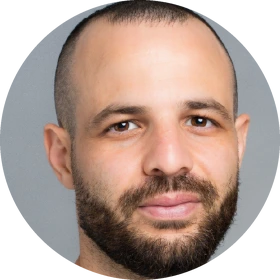
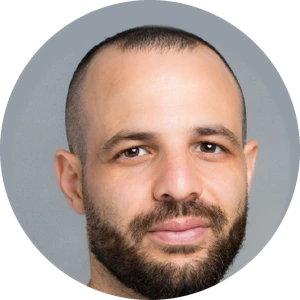
Give Idan's portrait room around the head
Re-crop the photo so the whole head fits with space above it, fill the
extra room with the photo's own grey background, and show it a bit
larger with a soft shadow.

Claude-Session: https://claude.ai/code/session_01TY5CZQ4sWhj6NhcQpv2jXT

diff --git a/index.html b/index.html
@@ -247,7 +247,7 @@ a.chip{display:inline-flex;align-items:center;text-decoration:none}
 /* about */
 .about{background:radial-gradient(60% 50% at 54% 50%,#182f53 0%,#171a3a 65%,#0e1630 100%);padding-block:102px 69px}
 .who{display:flex;align-items:center;gap:74px;max-width:1240px;margin-inline:auto}
-.avatar{flex:none;width:180px;height:180px;border-radius:50%;box-shadow:0 0 0 4px #fff;overflow:hidden;background:#2a3566;display:grid;place-items:center;font:800 40px Rubik,sans-serif;order:-1}
+.avatar{flex:none;width:200px;height:200px;border-radius:50%;box-shadow:0 0 0 4px #fff,0 18px 40px rgba(0,0,0,.35);overflow:hidden;background:#2a3566;display:grid;place-items:center;font:800 40px Rubik,sans-serif;order:-1}
 .avatar img{width:100%;height:100%;object-fit:cover}
 .who .t{flex:1;max-width:985px}
 .who h2{font:700 clamp(30px,3.1vw,44px)/1.45 Rubik,sans-serif}
@@ -496,7 +496,7 @@ fieldset{border:0;padding:0;margin:31px 0 0;display:grid;grid-template-columns:1
 </div></section>
 
 <section id="about" class="about"><div class="wrap who">
-  <div class="avatar"><img src="assets/idan.webp" width="280" height="280" alt="עידן גל" data-en-alt="Idan Gal" loading="lazy" onerror="this.replaceWith(document.createTextNode('ע״ג'))"></div>
+  <div class="avatar"><img src="assets/idan.webp?v=2" width="300" height="300" alt="עידן גל" data-en-alt="Idan Gal" loading="lazy" onerror="this.replaceWith(document.createTextNode('ע״ג'))"></div>
   <div class="t">
     <h2 data-en="Nice to meet you, I'm Idan">נעים להכיר, עידן</h2>
     <p data-en="I'm Idan Gal, a data scientist with an M.Sc. in Information Systems Engineering from Ben-Gurion University. I build data and AI systems, and now I bring the same capabilities to business landing pages.">אני עידן גל, מדען נתונים עם תואר שני בהנדסת מערכות מידע מאוניברסיטת בן-גוריון. אני בונה מערכות נתונים ו-AI, ועכשיו מביא את אותן יכולות לדפי נחיתה של עסקים.</p>
